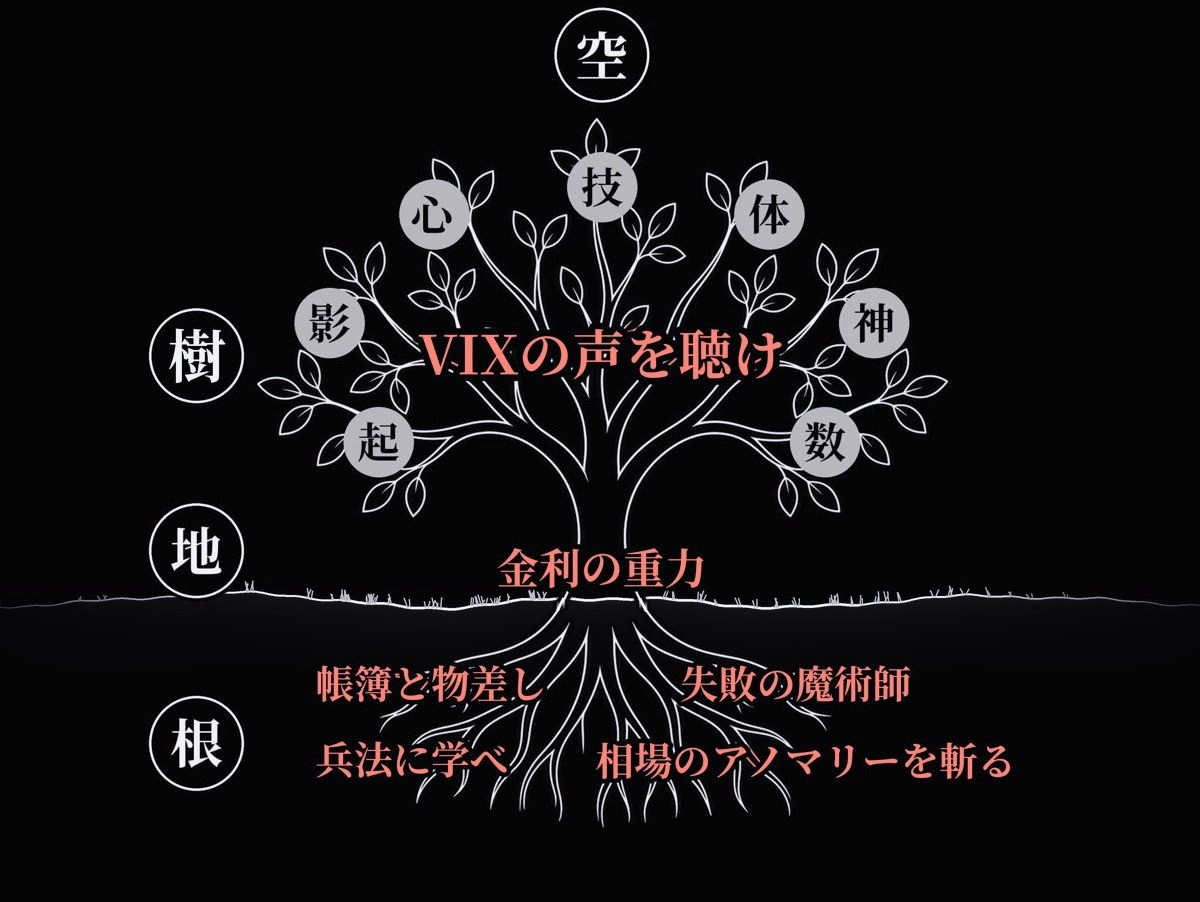
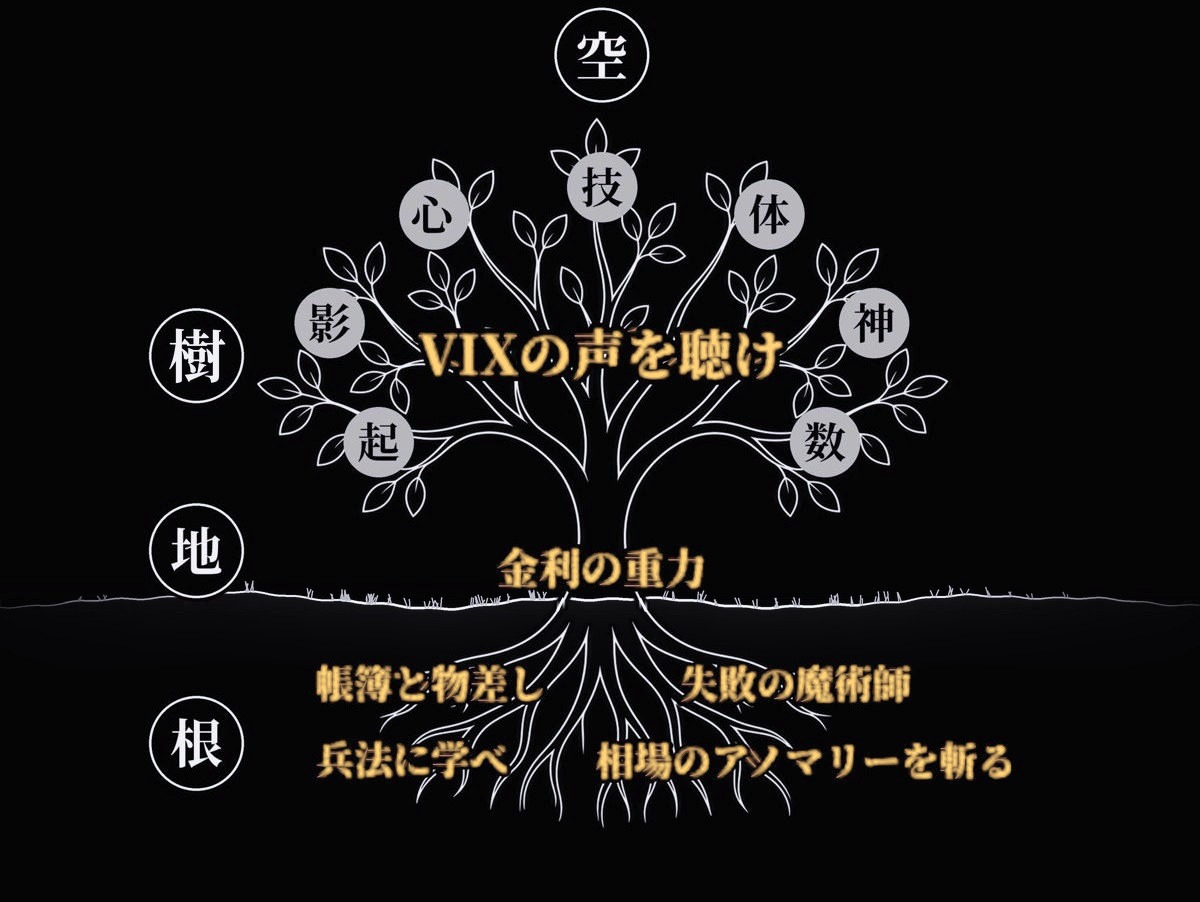
Book map: the titles in gold, a little bolder (red is kept for warnings) (fi-v182)
Claude-Session: https://claude.ai/code/session_01CMvhuw5zz1khXj68M5yA3x

diff --git a/index.html b/index.html
@@ -499,7 +499,7 @@ html.embed .top,html.embed .foot,html.embed body::before{display:none}html.embed
 <script src="../mind/engine.js"></script>
 <script src="../mind/words.js"></script>
 <script>
-const APP_VER="fi-v181";
+const APP_VER="fi-v182";
 const $=id=>document.getElementById(id);
 // the paper is Japanese only (its English edition was retired); the アプリ / 書籍 tabs shown inside another app keep that app's language (?lang=)
 const LANG=EMBED&&(location.search.match(/[?&]lang=(ja|en)\b/)||[])[1]||"ja";
@@ -680,7 +680,7 @@ function renderGuide(){
 function renderBooks(){
   // the tree (tap a title to open its Amazon page), then the same books as a list; the English edition sits in its own panel below
   $("books").innerHTML=`<div class="ph"><h2>${tx("書籍体系図","The book map")}</h2><span class="asof">Gold Locks / ${tx("恐怖指数研究所","Fear Index Research Institute")}</span></div>
-    <div class="tree"><div class="tin"><img src="icons/book-map.jpg?v=2" alt="書籍体系図" width="1200" height="902" onerror="if(!this.dataset.r){this.dataset.r=1;this.src='icons/book-map.jpg?r='+Date.now()}">${BOOKS.filter(x=>x[4]).map(([b,url,,,r])=>`<a href="${url}" target="_blank" rel="noopener" aria-label="『${b}』" style="left:${r[0]}%;top:${r[1]}%;width:${r[2]}%;height:${r[3]}%"></a>`).join("")}</div></div>
+    <div class="tree"><div class="tin"><img src="icons/book-map.jpg?v=3" alt="書籍体系図" width="1200" height="902" onerror="if(!this.dataset.r){this.dataset.r=1;this.src='icons/book-map.jpg?r='+Date.now()}">${BOOKS.filter(x=>x[4]).map(([b,url,,,r])=>`<a href="${url}" target="_blank" rel="noopener" aria-label="『${b}』" style="left:${r[0]}%;top:${r[1]}%;width:${r[2]}%;height:${r[3]}%"></a>`).join("")}</div></div>
     <div class="bmap">${BOOKS.filter(x=>!x[5]).map(bookRow).join("")}</div>`;
   $("books-en").innerHTML=`<div class="ph"><h2>${tx("英語版","English edition")}</h2><span class="asof">${tx("English edition","")}</span></div><div class="bmap solo">${BOOKS.filter(x=>x[5]).map(bookRow).join("")}</div>`;
 }

diff --git a/sw.js b/sw.js
@@ -1,7 +1,7 @@
 // Offline shell; the page and the data are always fetched fresh when online. Bump CACHE when the app files change.
 // Fetch by URL, not with the request itself: a page navigation can't be re-sent with options, and doing so used to fall
 // through to the cached (old) page, so updates never showed.
-const CACHE = "fi-v181";
+const CACHE = "fi-v182";
 const SHELL = ["./", "index.html", "suite.js", "manifest.webmanifest", "books.js", "icons/app.png", "icons/masthead.png", "icons/title-red.png", "icons/icon-512.png", "icons/icon-192.png", "icons/book-map.jpg",
   "icons/book-vix.jpg", "icons/book-vix-en.jpg", "icons/book-kinri.jpg", "icons/book-chobo.jpg", "icons/book-shippai.jpg",
   "icons/book-heiho.jpg", "icons/book-anomaly.jpg"];
